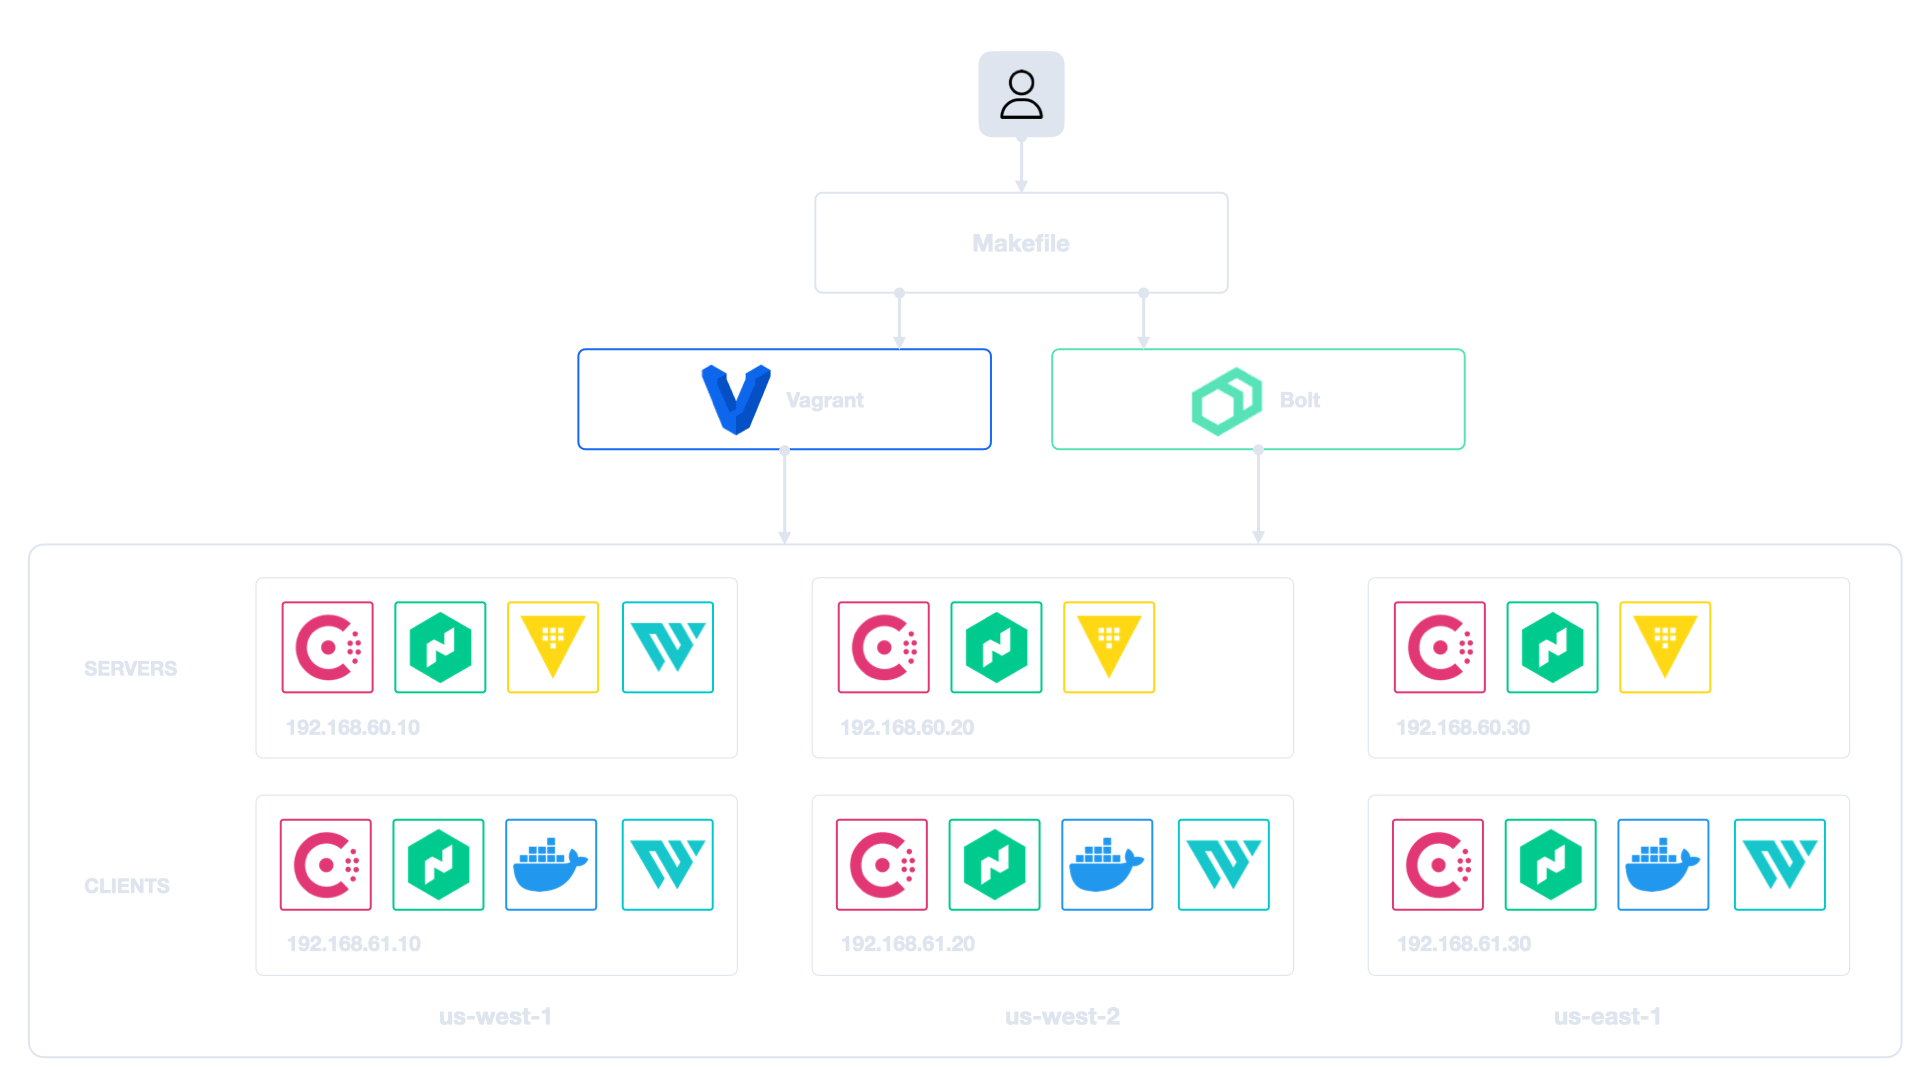
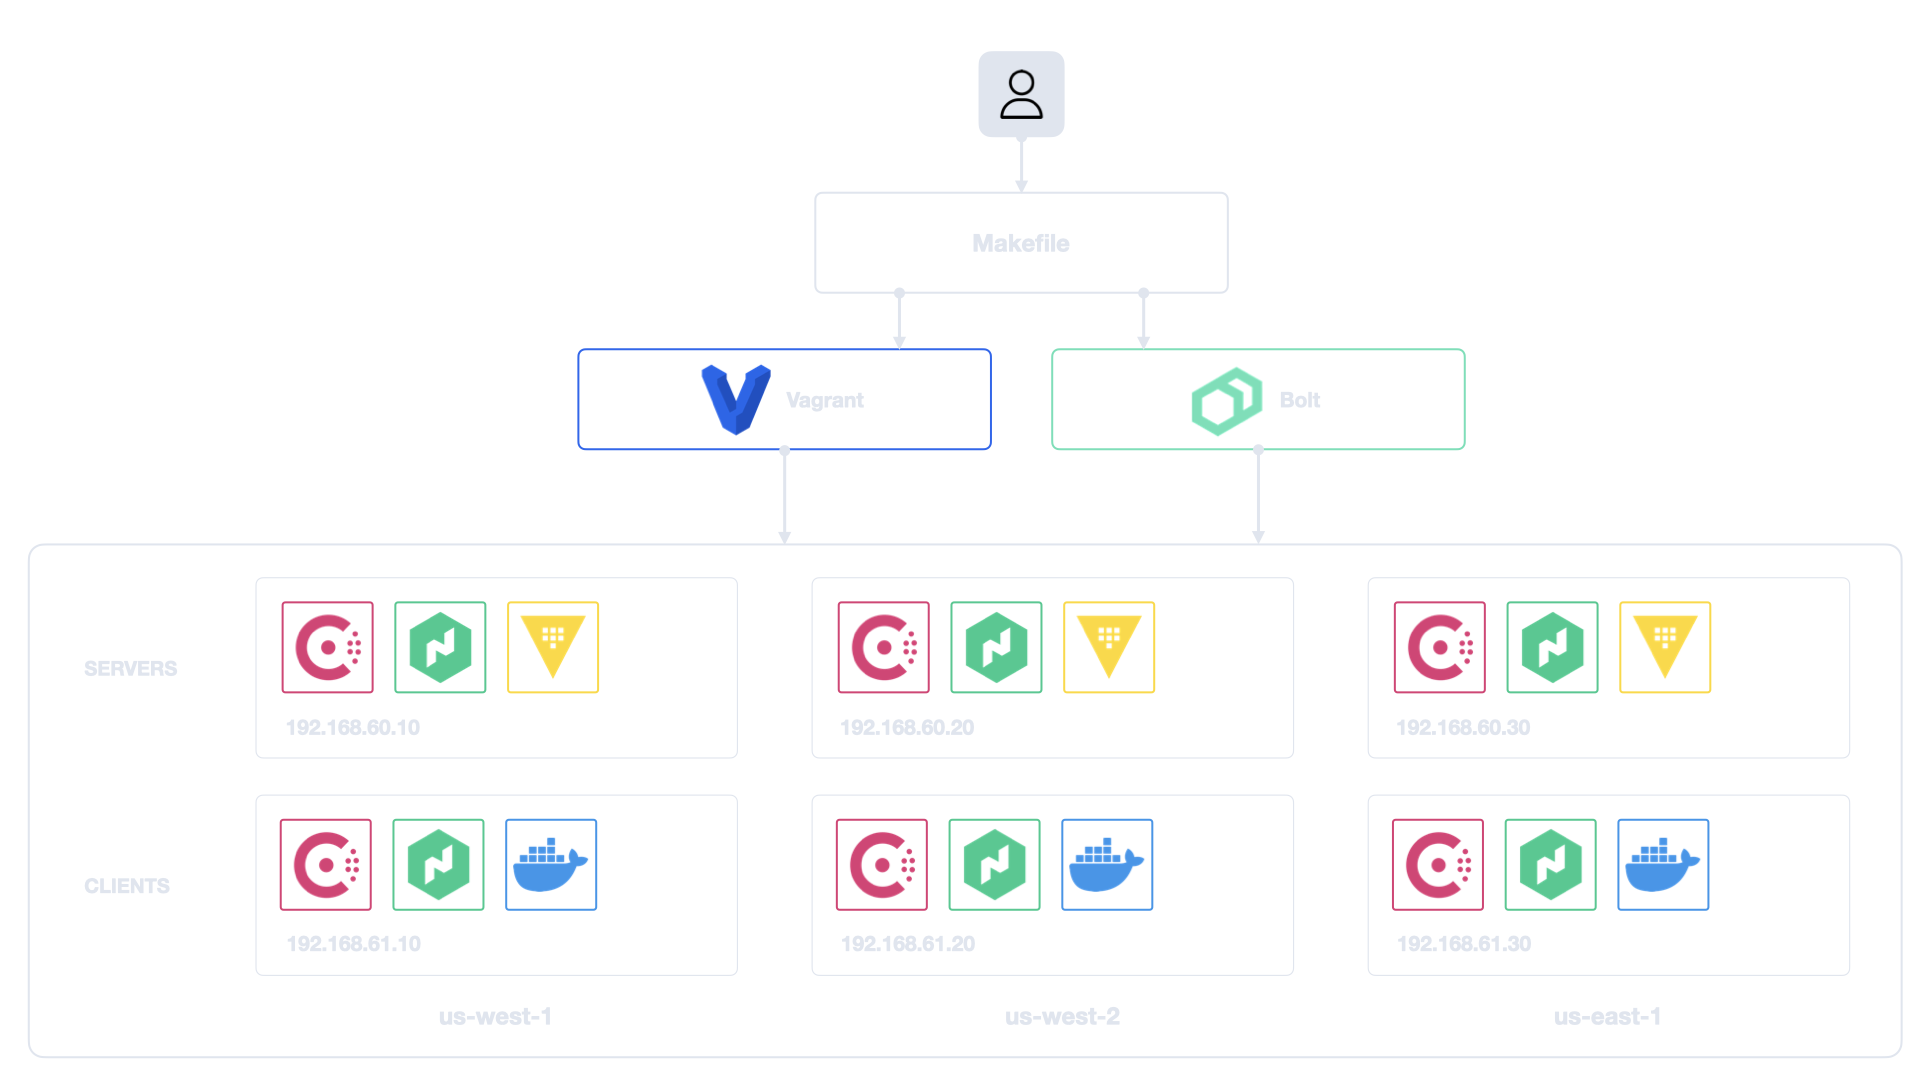
refactor(waypoint): Remove support for Waypoint

diff --git a/README.md b/README.md
@@ -5,8 +5,7 @@ HashiBox is a local environment to simulate a highly-available cloud with
 [Vault](https://www.vaultproject.io/). OSS and Enterprise versions of each
 product are supported. Consul Connect is enabled and uses Vault as CA provider.
 
-[Waypoint](https://www.waypointproject.io/) can be added but is optional. It also
-installs [Docker](https://www.docker.com/) for running Nomad's jobs inside
+It also installs [Docker](https://www.docker.com/) for running Nomad's jobs inside
 containers.
 
 It leverages [Vagrant](https://www.vagrantup.com/) for virtualization, and
@@ -30,8 +29,7 @@ parity for simulating a Cloud Platform from end-to-end before going in productio
 **Notes about the environment:**
 - ACLs are enabled and automatically bootstrapped in Consul and Nomad. To simplify
   the setup, the bootstrapped tokens are used in favor of scope-defined ones.
-- To simplify the setup, TLS across Consul, Nomad, Vault, and Waypoint is not
-  configured.
+- To simplify the setup, TLS across Consul, Nomad, and Vault is not configured.
 - Only Vault *server* is leveraged. Vault agents in *client* mode are not setup
   since we don't use it. Feel free to make a pull request to support it.
 - We could have leveraged Vagrant's *sync folders* instead of Bolt for file
@@ -83,15 +81,6 @@ parity for simulating a Cloud Platform from end-to-end before going in productio
   ![Vault Secrets](./assets/screenshots/vault-secrets.png)
 
   ![Vault Access](./assets/screenshots/vault-access.png)
-</details>
-
-<details>
-  <summary>Waypoint</summary>
-  <br>
-
-  ![Waypoint Authenticate](./assets/screenshots/waypoint-auth.png)
-
-  ![Waypoint Projects](./assets/screenshots/waypoint-projects.png)
 </details>
 
 ## License

diff --git a/documentation/index.md b/documentation/index.md
@@ -10,8 +10,7 @@ HashiBox is a local environment to simulate a highly-available cloud with
 [Vault](https://www.vaultproject.io/). OSS and Enterprise versions of each
 product are supported. Consul Connect is enabled and uses Vault as CA provider.
 
-[Waypoint](https://www.waypointproject.io/) can be added but is optional. It also
-installs [Docker](https://www.docker.com/) for running Nomad's jobs inside
+It also installs [Docker](https://www.docker.com/) for running Nomad's jobs inside
 containers.
 
 It leverages [Vagrant](https://www.vagrantup.com/) for virtualization, and
